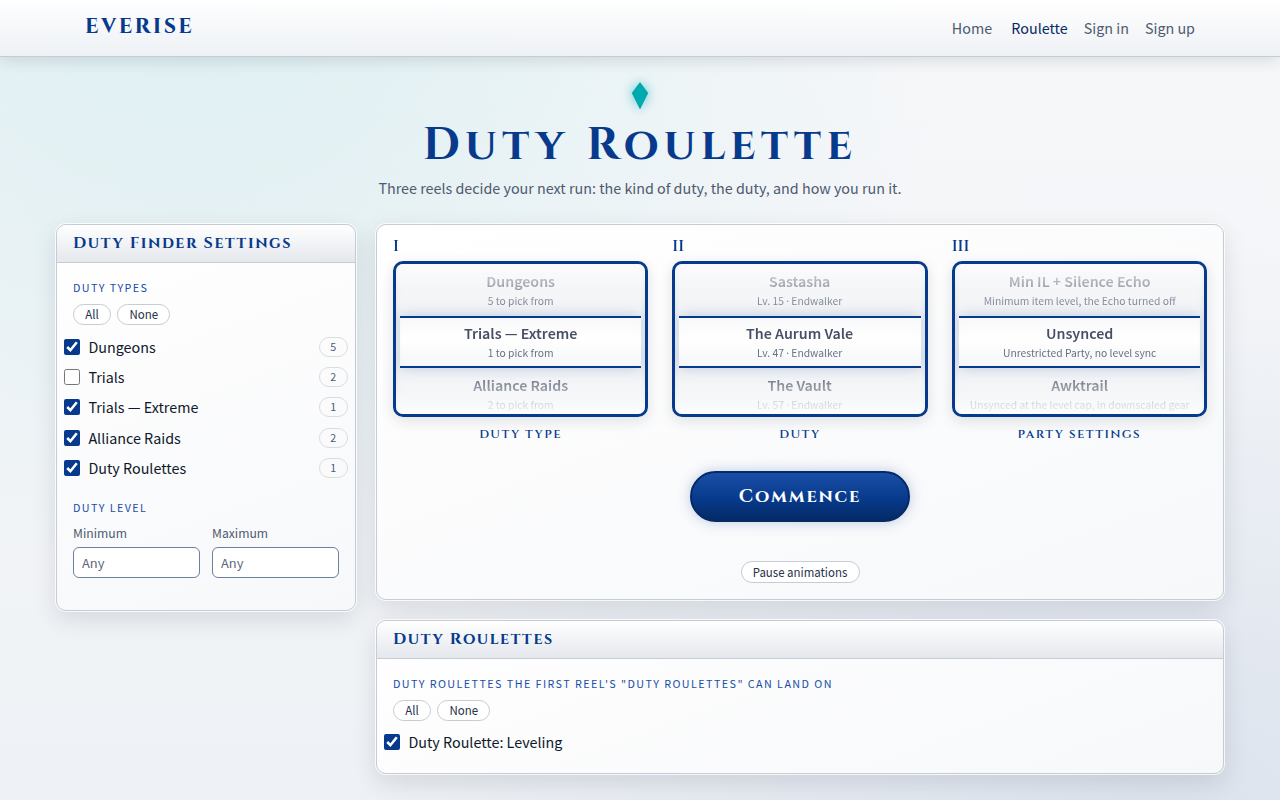
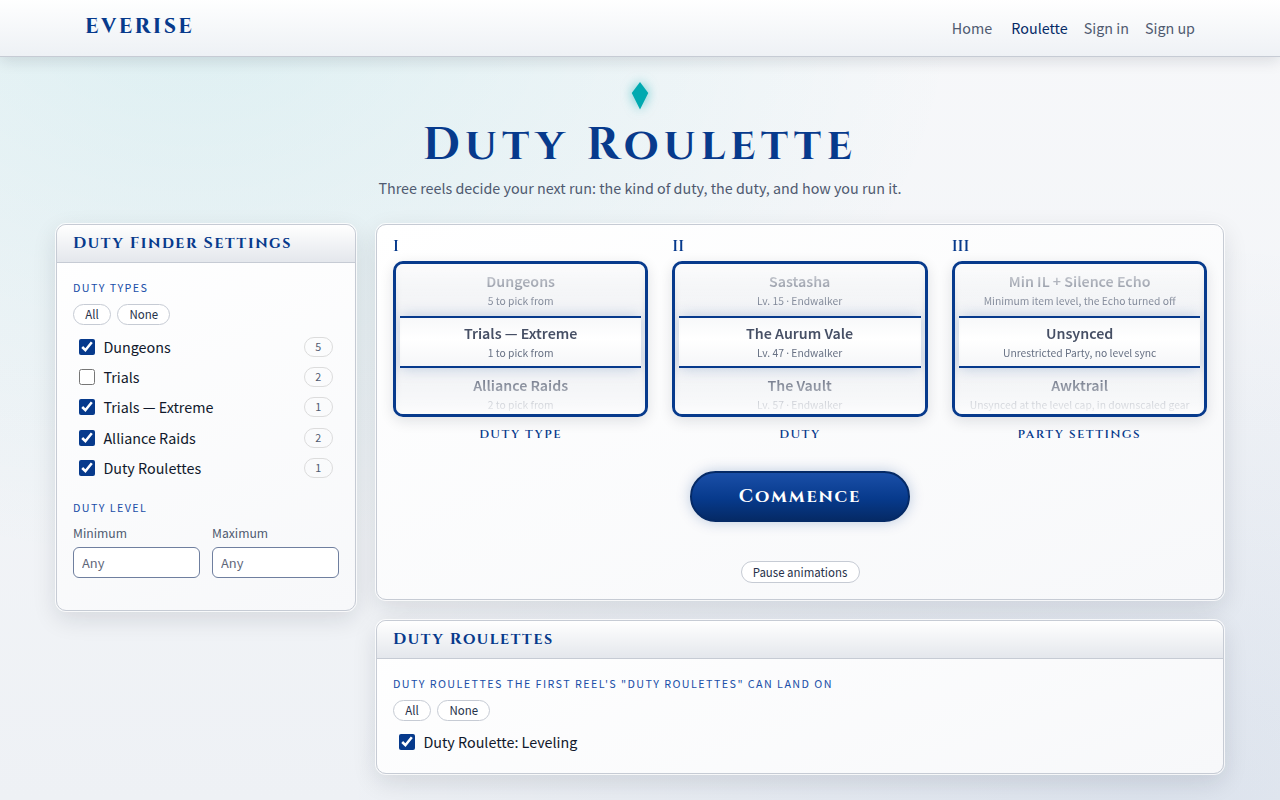
Save dark mode with the user's settings, as part of the settings form (#30)
- Settings → Appearance → Dark mode is a field of the settings form,
  labelled like the others, previewed as soon as it changes and saved
  with "Update Settings" (darkMode on the backend's user). Leaving
  without saving puts the saved mode back.
- The app applies a signed-in user's saved mode; this browser keeps a
  copy so pages start in the right mode, and guests keep theirs there.
- Settings could not be saved by anyone without a bio: the form sent the
  null the backend returns, which it refuses. It now sends "".
- cdt-checkbox's label was class "row", which the theme's layout grid
  styles with -15px margins: checkboxes stuck out of their fields and
  panels. Renamed to "check".
- README, website diagram, theme skill and the roulette screenshot
  updated.

Claude-Session: https://claude.ai/code/session_01SBcSQmPCxjaYJSLPDMYW1Z

Changed region(s): [[0.0312, 0.4062, 0.1562, 0.5938], [0.2812, 0.9062, 0.4688, 0.9375]]

diff --git a/libs/settings/feature-settings/src/settings.component.spec.ts b/libs/settings/feature-settings/src/settings.component.spec.ts
@@ -1,0 +1,76 @@
+import { signal } from '@angular/core';
+import { TestBed } from '@angular/core/testing';
+import { AuthStore } from '@realworld/auth/data-access';
+import { User } from '@realworld/core/api-types';
+import { SettingsStore } from '@realworld/settings/data-access';
+import { SettingsComponent } from './settings.component';
+
+function fakeAuthStore(user: User) {
+  return {
+    user: signal(user),
+    getUserLoaded: signal(true),
+    imageBusy: signal(false),
+    imageError: signal<string | null>(null),
+    setImageError: () => undefined,
+    updateUser: vi.fn(),
+    uploadImage: () => undefined,
+    removeImage: () => undefined,
+  };
+}
+
+describe('SettingsComponent dark mode', () => {
+  const user: User = {
+    email: 'urianger@example.com',
+    username: 'Urianger',
+    bio: null as unknown as string,
+    image: '/a.png',
+    darkMode: false,
+  };
+
+  async function render() {
+    const authStore = fakeAuthStore(user);
+    TestBed.configureTestingModule({
+      imports: [SettingsComponent],
+      providers: [{ provide: AuthStore, useValue: authStore }],
+    });
+    const fixture = TestBed.createComponent(SettingsComponent);
+    await fixture.whenStable();
+    const page = fixture.nativeElement as HTMLElement;
+    const checkbox = page.querySelector('.appearance input[type=checkbox]') as HTMLInputElement;
+    return { fixture, page, checkbox, authStore, settings: TestBed.inject(SettingsStore) };
+  }
+
+  afterEach(() => localStorage.clear());
+
+  it('is a labelled part of the form, showing the saved mode', async () => {
+    const { page, checkbox } = await render();
+
+    expect(page.querySelector('form .appearance legend')?.textContent?.trim()).toBe('Appearance');
+    expect(checkbox.closest('label')?.textContent?.trim()).toBe('Dark mode');
+    expect(checkbox.checked).toBe(false);
+  });
+
+  it('previews a change at once and saves it with the other settings', async () => {
+    const { fixture, page, checkbox, authStore, settings } = await render();
+
+    checkbox.click();
+    await fixture.whenStable();
+    expect(settings.darkMode()).toBe(true);
+
+    (page.querySelector('form') as HTMLFormElement).dispatchEvent(new Event('submit'));
+    expect(authStore.updateUser).toHaveBeenCalledWith(
+      expect.objectContaining({ darkMode: true, username: 'Urianger', bio: '' }),
+    );
+  });
+
+  it('puts the saved mode back when left without saving', async () => {
+    const { fixture, checkbox, settings } = await render();
+
+    checkbox.click();
+    await fixture.whenStable();
+    expect(settings.darkMode()).toBe(true);
+
+    fixture.destroy();
+    expect(settings.darkMode()).toBe(false);
+  });
+});

diff --git a/libs/settings/feature-settings/src/settings.component.ts b/libs/settings/feature-settings/src/settings.component.ts
@@ -2,6 +2,7 @@ import {
   ChangeDetectionStrategy,
   Component,
   ElementRef,
+  OnDestroy,
   computed,
   effect,
   inject,
@@ -33,7 +34,7 @@ import { PICTURE_HINT, checkChosenFile } from './profile-picture';
   ],
   changeDetection: ChangeDetectionStrategy.OnPush,
 })
-export class SettingsComponent {
+export class SettingsComponent implements OnDestroy {
   protected readonly authStore = inject(AuthStore);
   private readonly settingsStore = inject(SettingsStore);
   private readonly fb = inject(FormBuilder);
@@ -52,9 +53,8 @@ export class SettingsComponent {
     bio: [''],
     email: ['', [Validators.required, Validators.email]],
     password: ['', [Validators.minLength(8)]],
+    darkMode: [this.settingsStore.darkMode()],
   });
-
-  darkMode = this.settingsStore.darkMode();
 
   constructor() {
     // A problem from an earlier visit is old news.
@@ -64,17 +64,30 @@ export class SettingsComponent {
   readonly setUserDataToForm = effect(() => {
     const userLoaded = this.authStore.getUserLoaded();
     if (userLoaded) {
-      this.form.patchValue({ ...this.authStore.user(), password: '' });
+      const user = this.authStore.user();
+      this.form.patchValue({ ...user, password: '', darkMode: user.darkMode ?? this.settingsStore.darkMode() });
     }
   });
 
-  toggleDarkMode() {
-    this.settingsStore.toggleDarkModeStatus();
+  // Dark mode is saved with "Update Settings", but shows straight away.
+  previewDarkMode(darkMode: boolean) {
+    this.form.controls.darkMode.setValue(darkMode);
+    this.form.controls.darkMode.markAsDirty();
+    this.settingsStore.setDarkMode(darkMode);
+  }
+
+  // Leaving without saving puts the saved mode back.
+  ngOnDestroy() {
+    const saved = this.authStore.user().darkMode;
+    if (saved !== undefined) {
+      this.settingsStore.setDarkMode(saved);
+    }
   }
 
   onSubmit() {
-    const { password, ...fields } = this.form.getRawValue();
-    this.authStore.updateUser({ ...fields, ...(password ? { password } : {}) } as User);
+    const { password, bio, ...fields } = this.form.getRawValue();
+    // The backend sends no bio as null, and only takes text back.
+    this.authStore.updateUser({ ...fields, bio: bio ?? '', ...(password ? { password } : {}) } as User);
   }
 
   // A file chosen in the browser's file window: checked, then cropped in the

diff --git a/libs/settings/data-access/src/settings.store.ts b/libs/settings/data-access/src/settings.store.ts
@@ -3,8 +3,11 @@ import { patchState, signalStore, withHooks, withMethods, withState } from '@ngr
 import { SettingsState, settingsInitialState } from './models/settings.model';
 
 // The theme is dark by default; Dark Mode off switches to the light theme
-// (body.light in apps/everise/src/styles.scss). Only an explicit "false" in
-// storage turns it off.
+// (body.light, see the theme's tokens). A signed-in user's choice is saved
+// with their settings on the backend, and the app applies it when the user
+// loads (app.component.ts). This browser keeps a copy, so the page starts in
+// the right mode before the user has loaded, and guests keep their choice
+// here. Only an explicit "false" in storage means light.
 const DARK_MODE_KEY = 'darkMode';
 
 function storedDarkMode(): boolean {
@@ -19,15 +22,12 @@ export const SettingsStore = signalStore(
   { providedIn: 'root' },
   withState<SettingsState>(settingsInitialState),
   withMethods((store) => ({
-    _darkModeStatusInit: () => {
-      patchState(store, { darkMode: storedDarkMode() });
-    },
-    toggleDarkModeStatus: () => {
-      const darkMode = !store.darkMode();
+    // Shows the site in this mode and remembers it in this browser.
+    setDarkMode: (darkMode: boolean) => {
       try {
         localStorage.setItem(DARK_MODE_KEY, String(darkMode));
       } catch {
-        // Not remembered; the toggle still applies to this visit.
+        // Not remembered; the mode still applies to this visit.
       }
       patchState(store, { darkMode });
     },
@@ -35,7 +35,7 @@ export const SettingsStore = signalStore(
   withHooks({
     onInit: (store) => {
       const document = inject(DOCUMENT);
-      store._darkModeStatusInit();
+      patchState(store, { darkMode: storedDarkMode() });
 
       effect(() => {
         document.body.classList.toggle('light', !store.darkMode());

diff --git a/libs/settings/data-access/src/settings.store.spec.ts b/libs/settings/data-access/src/settings.store.spec.ts
@@ -1,0 +1,31 @@
+import { TestBed } from '@angular/core/testing';
+import { SettingsStore } from './settings.store';
+
+describe('SettingsStore', () => {
+  afterEach(() => {
+    localStorage.clear();
+    document.body.classList.remove('light');
+  });
+
+  it("starts dark, or in this browser's last mode", () => {
+    expect(TestBed.inject(SettingsStore).darkMode()).toBe(true);
+
+    TestBed.resetTestingModule();
+    localStorage.setItem('darkMode', 'false');
+    expect(TestBed.inject(SettingsStore).darkMode()).toBe(false);
+  });
+
+  it('shows a mode on the page and remembers it in this browser', () => {
+    const store = TestBed.inject(SettingsStore);
+
+    store.setDarkMode(false);
+    TestBed.tick();
+    expect(document.body.classList).toContain('light');
+    expect(localStorage.getItem('darkMode')).toBe('false');
+
+    store.setDarkMode(true);
+    TestBed.tick();
+    expect(document.body.classList).not.toContain('light');
+    expect(localStorage.getItem('darkMode')).toBe('true');
+  });
+});

diff --git a/apps/everise/src/app/app.component.ts b/apps/everise/src/app/app.component.ts
@@ -1,4 +1,13 @@
-import { ChangeDetectionStrategy, Component, DestroyRef, ElementRef, inject, viewChild } from '@angular/core';
+import {
+  ChangeDetectionStrategy,
+  Component,
+  DestroyRef,
+  ElementRef,
+  effect,
+  inject,
+  untracked,
+  viewChild,
+} from '@angular/core';
 import { NavigationEnd, Router, RouterModule } from '@angular/router';
 import { AuthStore } from '@realworld/auth/data-access';
 import { SettingsStore } from '@realworld/settings/data-access';
@@ -27,6 +36,14 @@ export class AppComponent {
 
   constructor() {
     this.authStore.getUser();
+
+    // A signed-in user's saved colour mode wins over this browser's copy.
+    effect(() => {
+      const darkMode = this.authStore.user().darkMode;
+      if (this.authStore.loggedIn() && darkMode !== undefined) {
+        untracked(() => this.settingsStore.setDarkMode(darkMode));
+      }
+    });
     window.addEventListener('online', () => {
       navigator.serviceWorker.controller?.postMessage('sync-favorites');
     });

diff --git a/libs/settings/feature-settings/src/settings.component.html b/libs/settings/feature-settings/src/settings.component.html
@@ -96,6 +96,14 @@
             />
             <cdt-input-errors [control]="form.controls.password" />
           </cdt-field>
+          <!-- Saved with the rest; previewed as soon as it changes. -->
+          <fieldset class="appearance">
+            <legend class="legend">Appearance</legend>
+            <cdt-checkbox [checked]="form.controls.darkMode.value" (checkedChange)="previewDarkMode($event)">
+              Dark mode
+            </cdt-checkbox>
+            <p class="hint">On: night-blue windows and crystal light. Off: Final Fantasy white.</p>
+          </fieldset>
           <button
             data-testid="edit-button-container"
             cdtButton
@@ -106,8 +114,6 @@
             Update Settings
           </button>
         </form>
-        <hr />
-        <cdt-checkbox class="dark-mode" [checked]="darkMode" (checkedChange)="toggleDarkMode()">Dark Mode</cdt-checkbox>
       </div>
     </div>
   </div>

diff --git a/libs/settings/feature-settings/src/settings.component.scss b/libs/settings/feature-settings/src/settings.component.scss
@@ -47,3 +47,22 @@
   font-size: 0.9rem;
   color: var(--color-danger);
 }
+
+// Appearance: a group in the form, labelled like the fields above it.
+.appearance {
+  margin: 0 0 1.5rem;
+  padding: 0;
+  border: none;
+}
+
+.legend {
+  margin-bottom: 0.35rem;
+  padding: 0;
+  font-size: 1rem;
+  font-weight: 600;
+  color: var(--color-contrast-soft);
+}
+
+.appearance .hint {
+  margin-top: 0.25rem;
+}

diff --git a/libs/ui/components/src/checkbox/checkbox.component.ts b/libs/ui/components/src/checkbox/checkbox.component.ts
@@ -6,7 +6,7 @@ import { ChangeDetectionStrategy, Component, model } from '@angular/core';
 @Component({
   selector: 'cdt-checkbox',
   template: `
-    <label class="row">
+    <label class="check">
       <input type="checkbox" [checked]="checked()" (change)="checked.set($any($event.target).checked)" />
       <ng-content />
     </label>

diff --git a/tools/diagrams/website-structure.js b/tools/diagrams/website-structure.js
@@ -360,7 +360,7 @@ page({
   lines: [
     'Profile picture: choose, crop to a square, upload',
     'Username, bio, email, new password',
-    'Dark mode toggle (saved in this browser)',
+    'Appearance: dark mode, saved with the account',
     { head: 'GOES TO' },
     { to: [['Update settings', '/profile/:username', 'profile']] },
   ],

diff --git a/libs/ui/components/src/checkbox/checkbox.component.scss b/libs/ui/components/src/checkbox/checkbox.component.scss
@@ -3,7 +3,8 @@
   display: block;
 }
 
-.row {
+// Not ".row": the theme's layout grid styles that class globally.
+.check {
   display: flex;
   align-items: center;
   gap: 0.5rem;
@@ -12,7 +13,7 @@
   cursor: pointer;
 }
 
-.row:hover {
+.check:hover {
   background: var(--color-hover);
 }
 

diff --git a/libs/core/api-types/src/lib/user.ts b/libs/core/api-types/src/lib/user.ts
@@ -5,6 +5,8 @@ export interface User {
   token?: string;
   bio: string;
   image: string;
+  // The site's colour mode, saved with the other settings (true: dark).
+  darkMode?: boolean;
 }
 
 export interface UserResponse {

diff --git a/libs/settings/data-access/src/index.ts b/libs/settings/data-access/src/index.ts
@@ -1,3 +1,2 @@
 export * from './models/settings.model';
 export { SettingsStore } from './settings.store';
-
